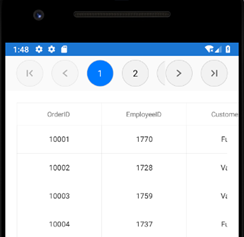
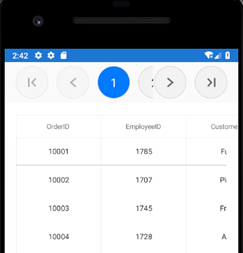
Review changes.

diff --git a/Xamarin/DataGrid/Paging.md b/Xamarin/DataGrid/Paging.md
@@ -216,8 +216,8 @@ N> The size of the `SfDataPager` is adjusted automatically based on the availabl
 {% tabs %}
 {% highlight xaml %}
 <sfDataPager:SfDataPager x:Name="sfDataPager"
-                         ButtonSize="50"
-                         ButtonFontSize="16"
+                         ButtonSize="60"
+                         ButtonFontSize="21"
                          Source="{Binding OrdersInfo}">
 </sfDataPager:SfDataPager>
 {% endhighlight %}
@@ -227,8 +227,8 @@ public partial class MainPage : ContentPage
     public MainPage()
     {
         InitializeComponent();
-        sfDataPager.ButtonSize = 50;
-        sfDataPager.ButtonFontSize = 16;
+        sfDataPager.ButtonSize = 60;
+        sfDataPager.ButtonFontSize = 21;
     }
 }
 {% endhighlight %}
